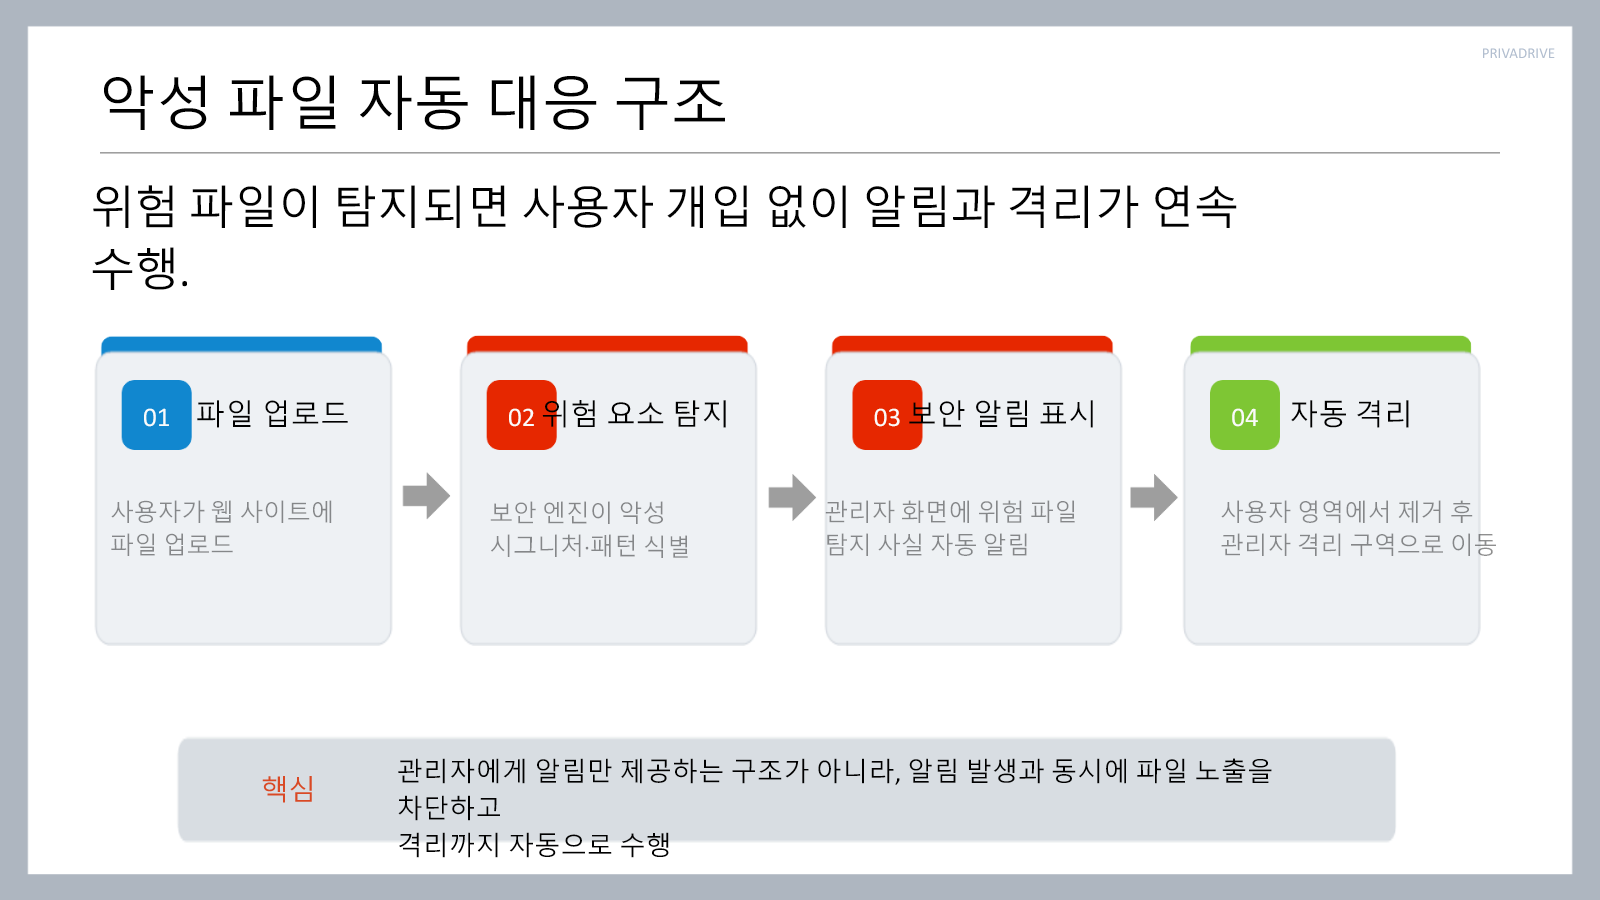
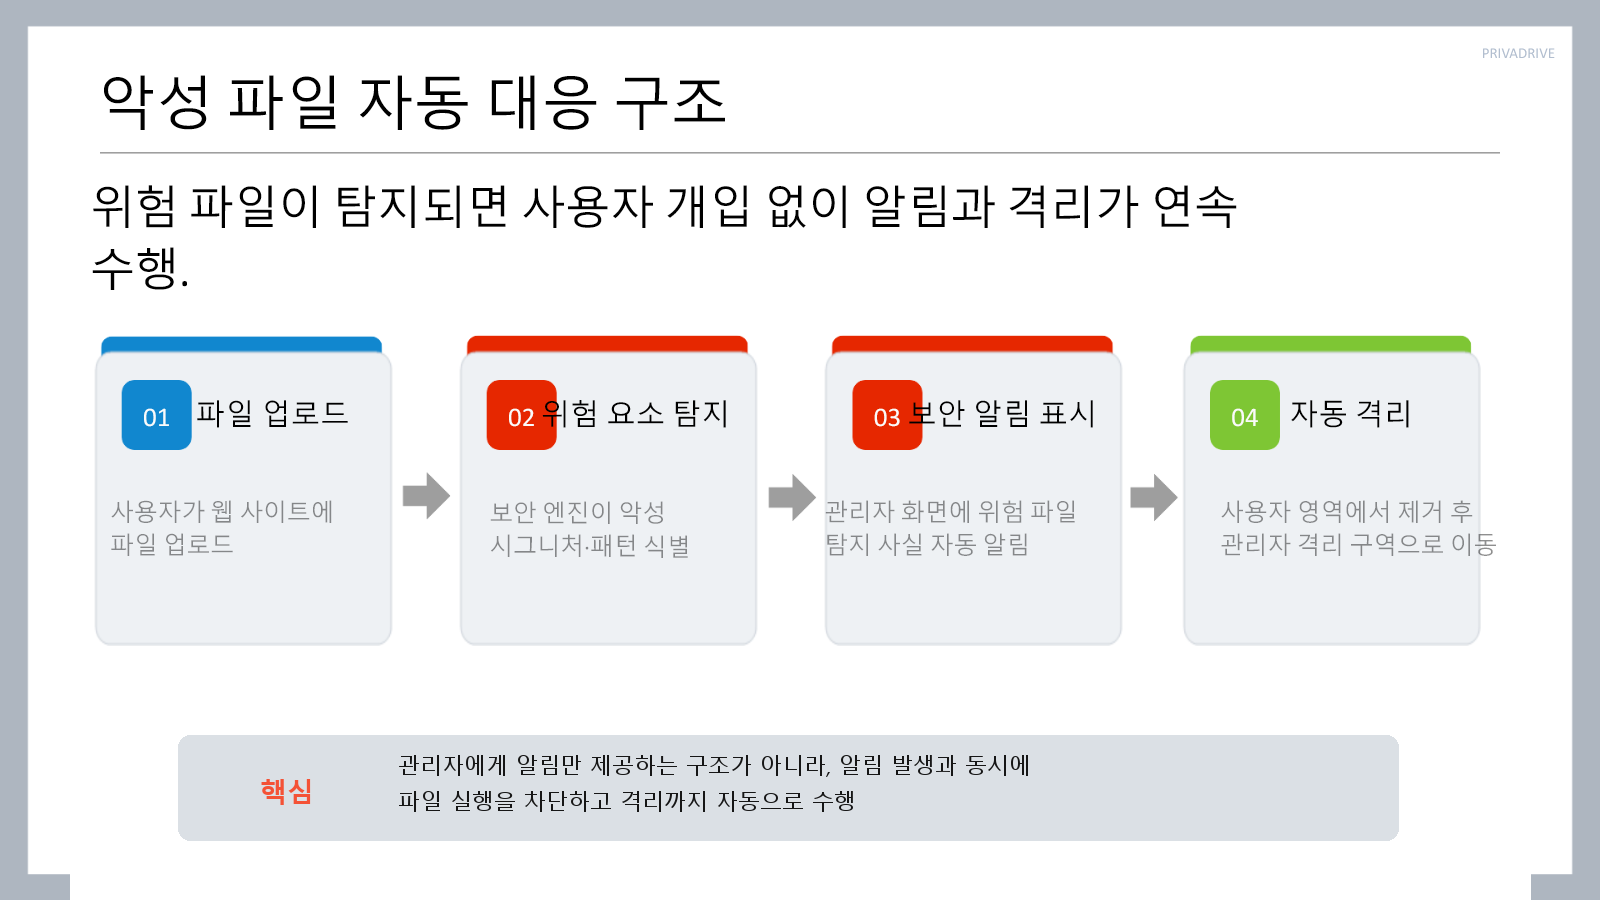
Add files via upload

Changed region(s): [[0.0312, 0.84, 0.9688, 1.0], [0.1562, 0.84, 0.2188, 0.9022], [0.8438, 0.8089, 0.875, 0.84]]

diff --git a/project-03.html b/project-03.html
@@ -85,7 +85,7 @@
           <article><span>06</span><div><b>CSRF</b><p>세션별 토큰을 생성해 상태 변경 요청에서 검증하고 실패 이벤트를 Wazuh로 전달했습니다.</p></div></article>
           <article><span>07</span><div><b>Brute Force</b><p>Suricata와 Wazuh에서 반복 로그인 시도를 탐지했습니다. 계정 잠금과 Rate Limiting은 잔여 보완 항목으로 남겼습니다.</p></div></article>
         </div>
-        <figure class="wide-proof cropped-proof"><div class="proof-crop"><img src="assets/images/project-03/sqli-result.png" alt="SQL Injection 탐지 및 제한 검증 결과"></div><p class="proof-summary"><b>검증 결과</b><span>조작된 로그인 요청에 Forbidden 응답이 반환되어 인증 우회와 보호 자원 접근이 제한되는 것을 확인했습니다.</span></p><figcaption>발표자료 중 SQL Injection 조치·탐지·관제 결과 정리 화면</figcaption></figure>
+        <figure class="wide-proof"><img src="assets/images/project-03/sqli-result.png?v=2" alt="SQL Injection 탐지 및 제한 검증 결과"><figcaption>발표자료 중 SQL Injection 조치·탐지·관제 결과 정리 화면</figcaption></figure>
       </div>
     </section>
 
@@ -110,7 +110,7 @@
         <p>테스트 파일은 실제 피해를 일으키는 악성코드가 아니라 탐지와 자동 대응을 검증하기 위해 위험 패턴을 넣은 샘플입니다. ClamAV, YARA, capa, oletools를 조합해 파일 유형과 내부 행위를 분석했습니다.</p>
         <p>검증 사례에서는 EICAR 시그니처와 capa 기능 패턴을 확인해 위험도 95점, MALICIOUS로 판정했습니다. 이후 사용자 영역에서 파일을 제거하고 관리자 격리 구역으로 이동했으며, 사건 번호와 분석 로그를 Wazuh로 전송했습니다.</p>
         <div class="malware-evidence">
-          <figure class="malware-flow-proof"><div class="proof-crop"><img src="assets/images/project-03/malware-flow.png" alt="악성 파일 자동 대응 구조"></div><p class="proof-summary"><b>핵심</b><span>관리자에게 알림만 제공하는 구조가 아니라, 알림 발생과 동시에 파일 노출을 차단하고 격리까지 자동으로 수행합니다.</span></p><figcaption>업로드 → 탐지 → 관리자 알림 → 자동 격리</figcaption></figure>
+          <figure><img src="assets/images/project-03/malware-flow.png?v=2" alt="악성 파일 자동 대응 구조"><figcaption>업로드 → 탐지 → 관리자 알림 → 자동 격리</figcaption></figure>
           <figure><img src="assets/images/project-03/malware-result.png" alt="EICAR 악성코드 분석 결과"><figcaption>ClamAV·YARA·capa·oletools 분석 결과 화면</figcaption></figure>
         </div>
       </div>

diff --git a/project-03.css b/project-03.css
@@ -26,12 +26,6 @@ body{background:#f7f7f5}
 .p3-vuln-list p{margin:0;color:#666;line-height:1.7}
 .wide-proof{margin:40px 0 0;padding:14px;background:#fff;border:1px solid #d9d9d5}
 .wide-proof img{display:block;width:100%}
-.proof-crop{overflow:hidden;background:#fff}
-.cropped-proof .proof-crop{aspect-ratio:16/8.55}
-.cropped-proof .proof-crop img{width:100%;height:auto}
-.proof-summary{display:grid;grid-template-columns:110px minmax(0,1fr);gap:22px;align-items:start;margin:12px 0 0;padding:16px 20px;background:#e7ebef;color:#222;line-height:1.65}
-.proof-summary b{color:#f05438;font-size:16px}
-.proof-summary span{min-width:0;overflow-wrap:anywhere;word-break:keep-all}
 .p3-script{padding:62px 48px;background:#eef2ff;border-top:2px solid #315efb;border-bottom:1px solid #ced8fa}
 .p3-script>div>p{max-width:850px}
 .script-policy{display:grid;grid-template-columns:repeat(3,1fr);gap:1px;margin:34px 0;background:#cbd3ef;border:1px solid #cbd3ef}
@@ -42,9 +36,6 @@ body{background:#f7f7f5}
 .report-pair figure,.malware-evidence figure{margin:0;padding:13px;background:#fff;border:1px solid #d9d9d5}
 .report-pair img,.malware-evidence img{display:block;width:100%;object-fit:contain}
 .malware-evidence{display:grid;grid-template-columns:1fr 1fr;gap:18px;margin-top:40px}
-.malware-flow-proof .proof-crop{aspect-ratio:16/8.1}
-.malware-flow-proof .proof-crop img{width:100%;height:auto}
-.malware-flow-proof .proof-summary{grid-template-columns:66px minmax(0,1fr);padding:14px 16px;font-size:13px}
 .p3-presentation>div>p{max-width:850px}
 .presentation-preview{display:grid;grid-template-columns:minmax(280px,.95fr) minmax(0,1.05fr);gap:34px;align-items:center;margin-top:42px;padding:24px;color:#111;background:#ecece8;border:1px solid #d4d4cf;text-decoration:none}
 .presentation-preview figure{margin:0;padding:10px;background:#fff;border:1px solid #cfcfca;box-shadow:0 10px 26px rgba(20,25,35,.12)}
@@ -69,7 +60,6 @@ body{background:#f7f7f5}
 .p3-file-list small{color:#777}
 @media(max-width:820px){
   .p3-role-grid,.report-pair,.malware-evidence,.presentation-preview,.demo-video{grid-template-columns:1fr}
-  .proof-summary,.malware-flow-proof .proof-summary{grid-template-columns:1fr;gap:6px}
   .p3-vuln-list article{grid-template-columns:32px minmax(0,1fr)}
   .p3-vuln-list article>div{grid-template-columns:1fr;gap:8px}
   .script-policy{grid-template-columns:1fr}
